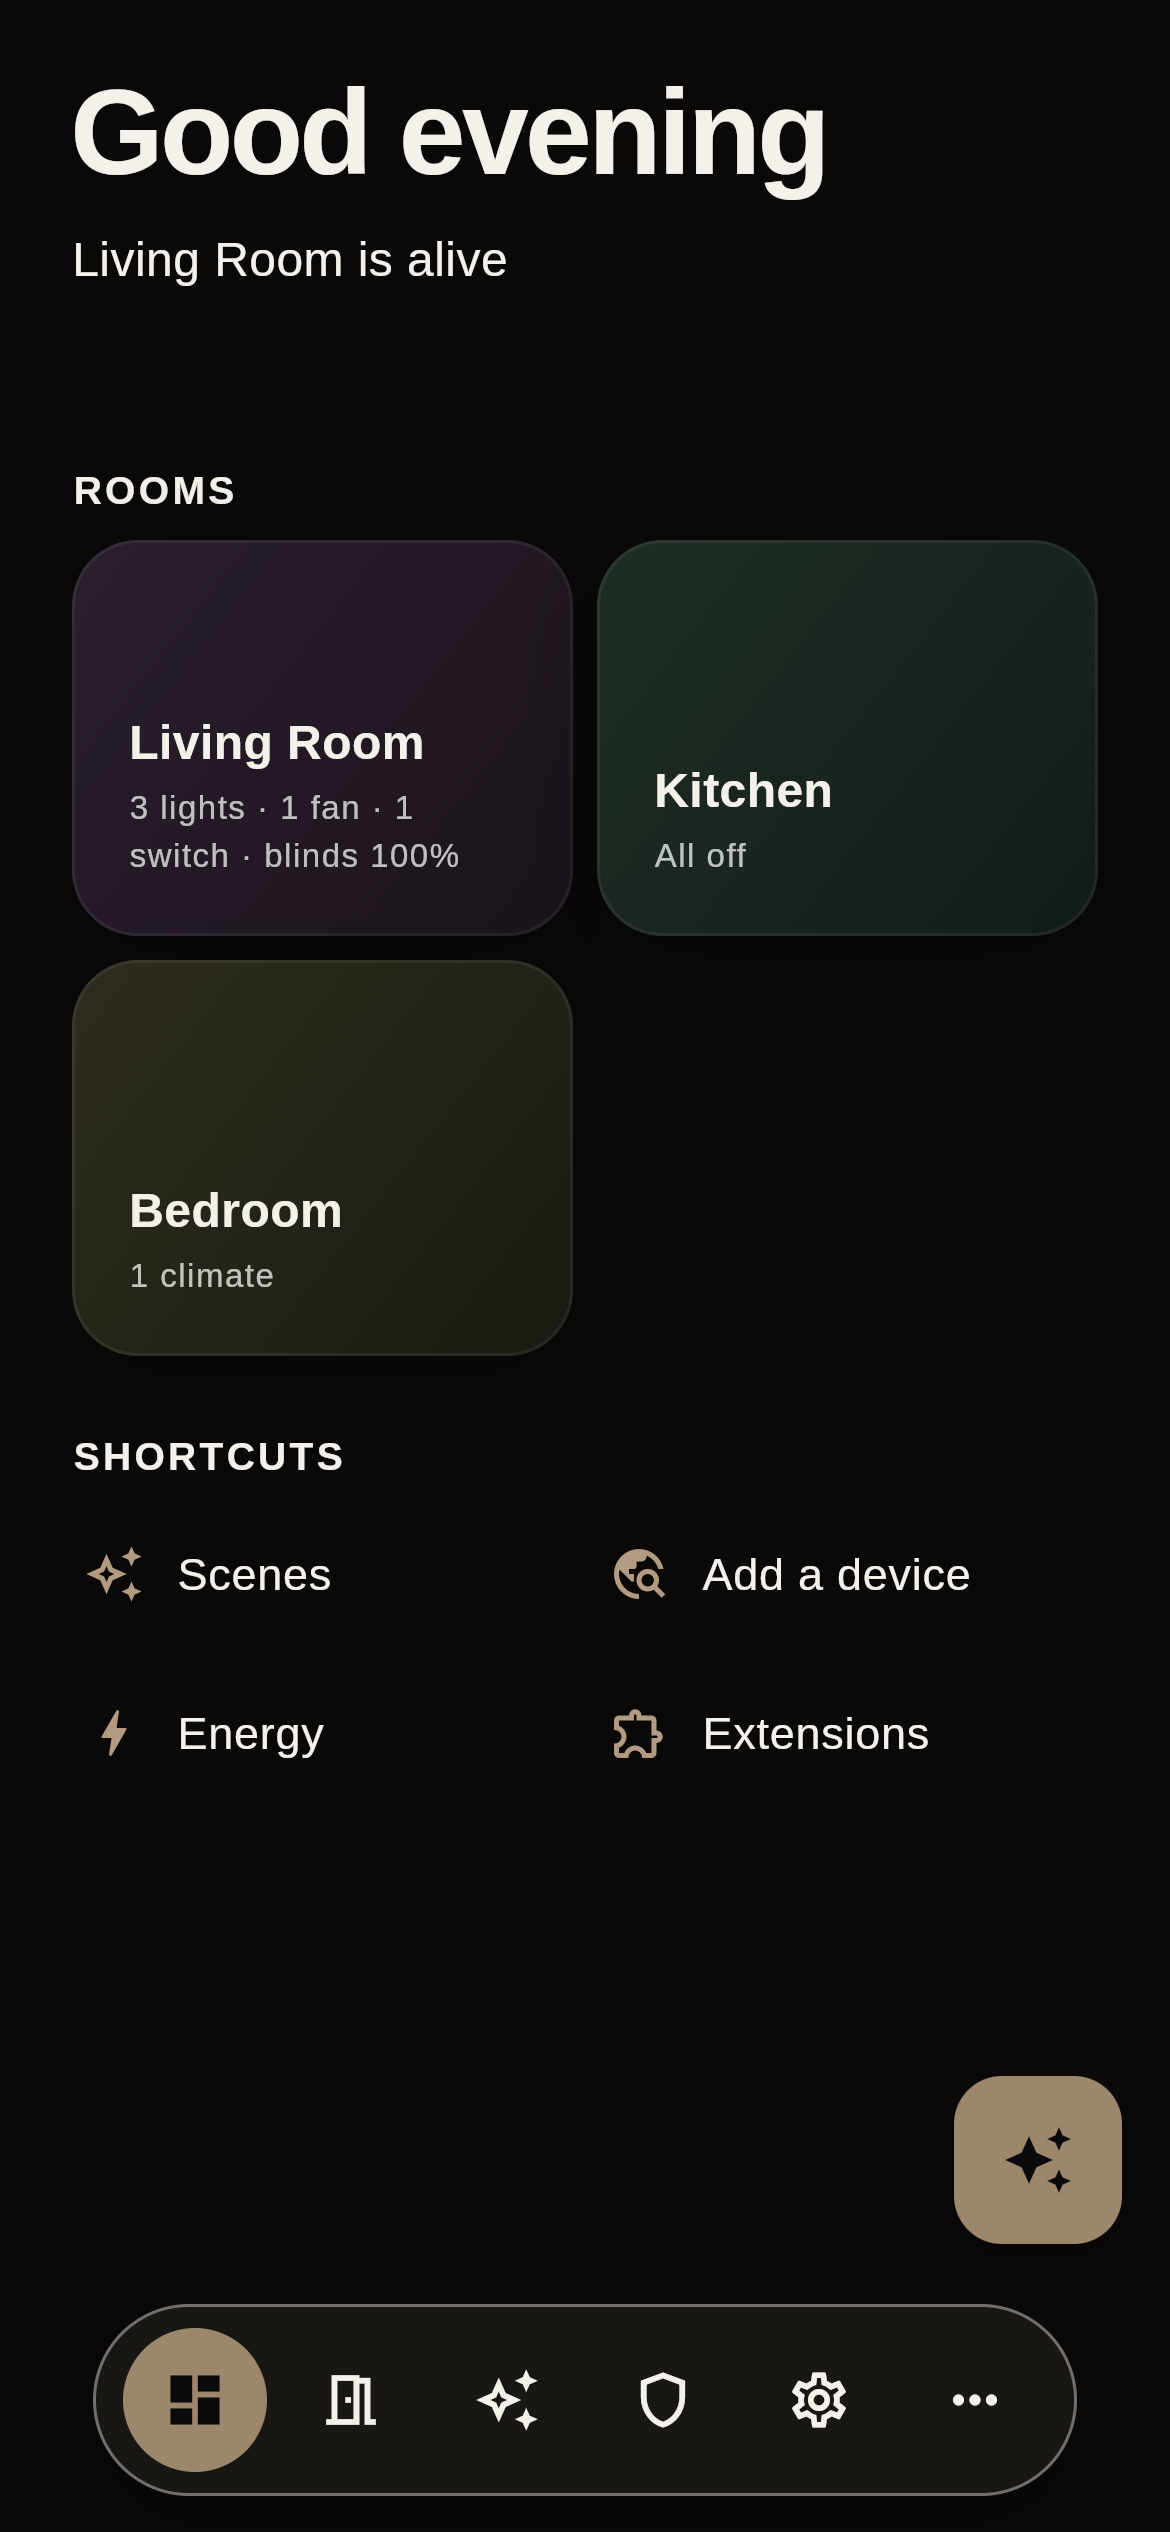
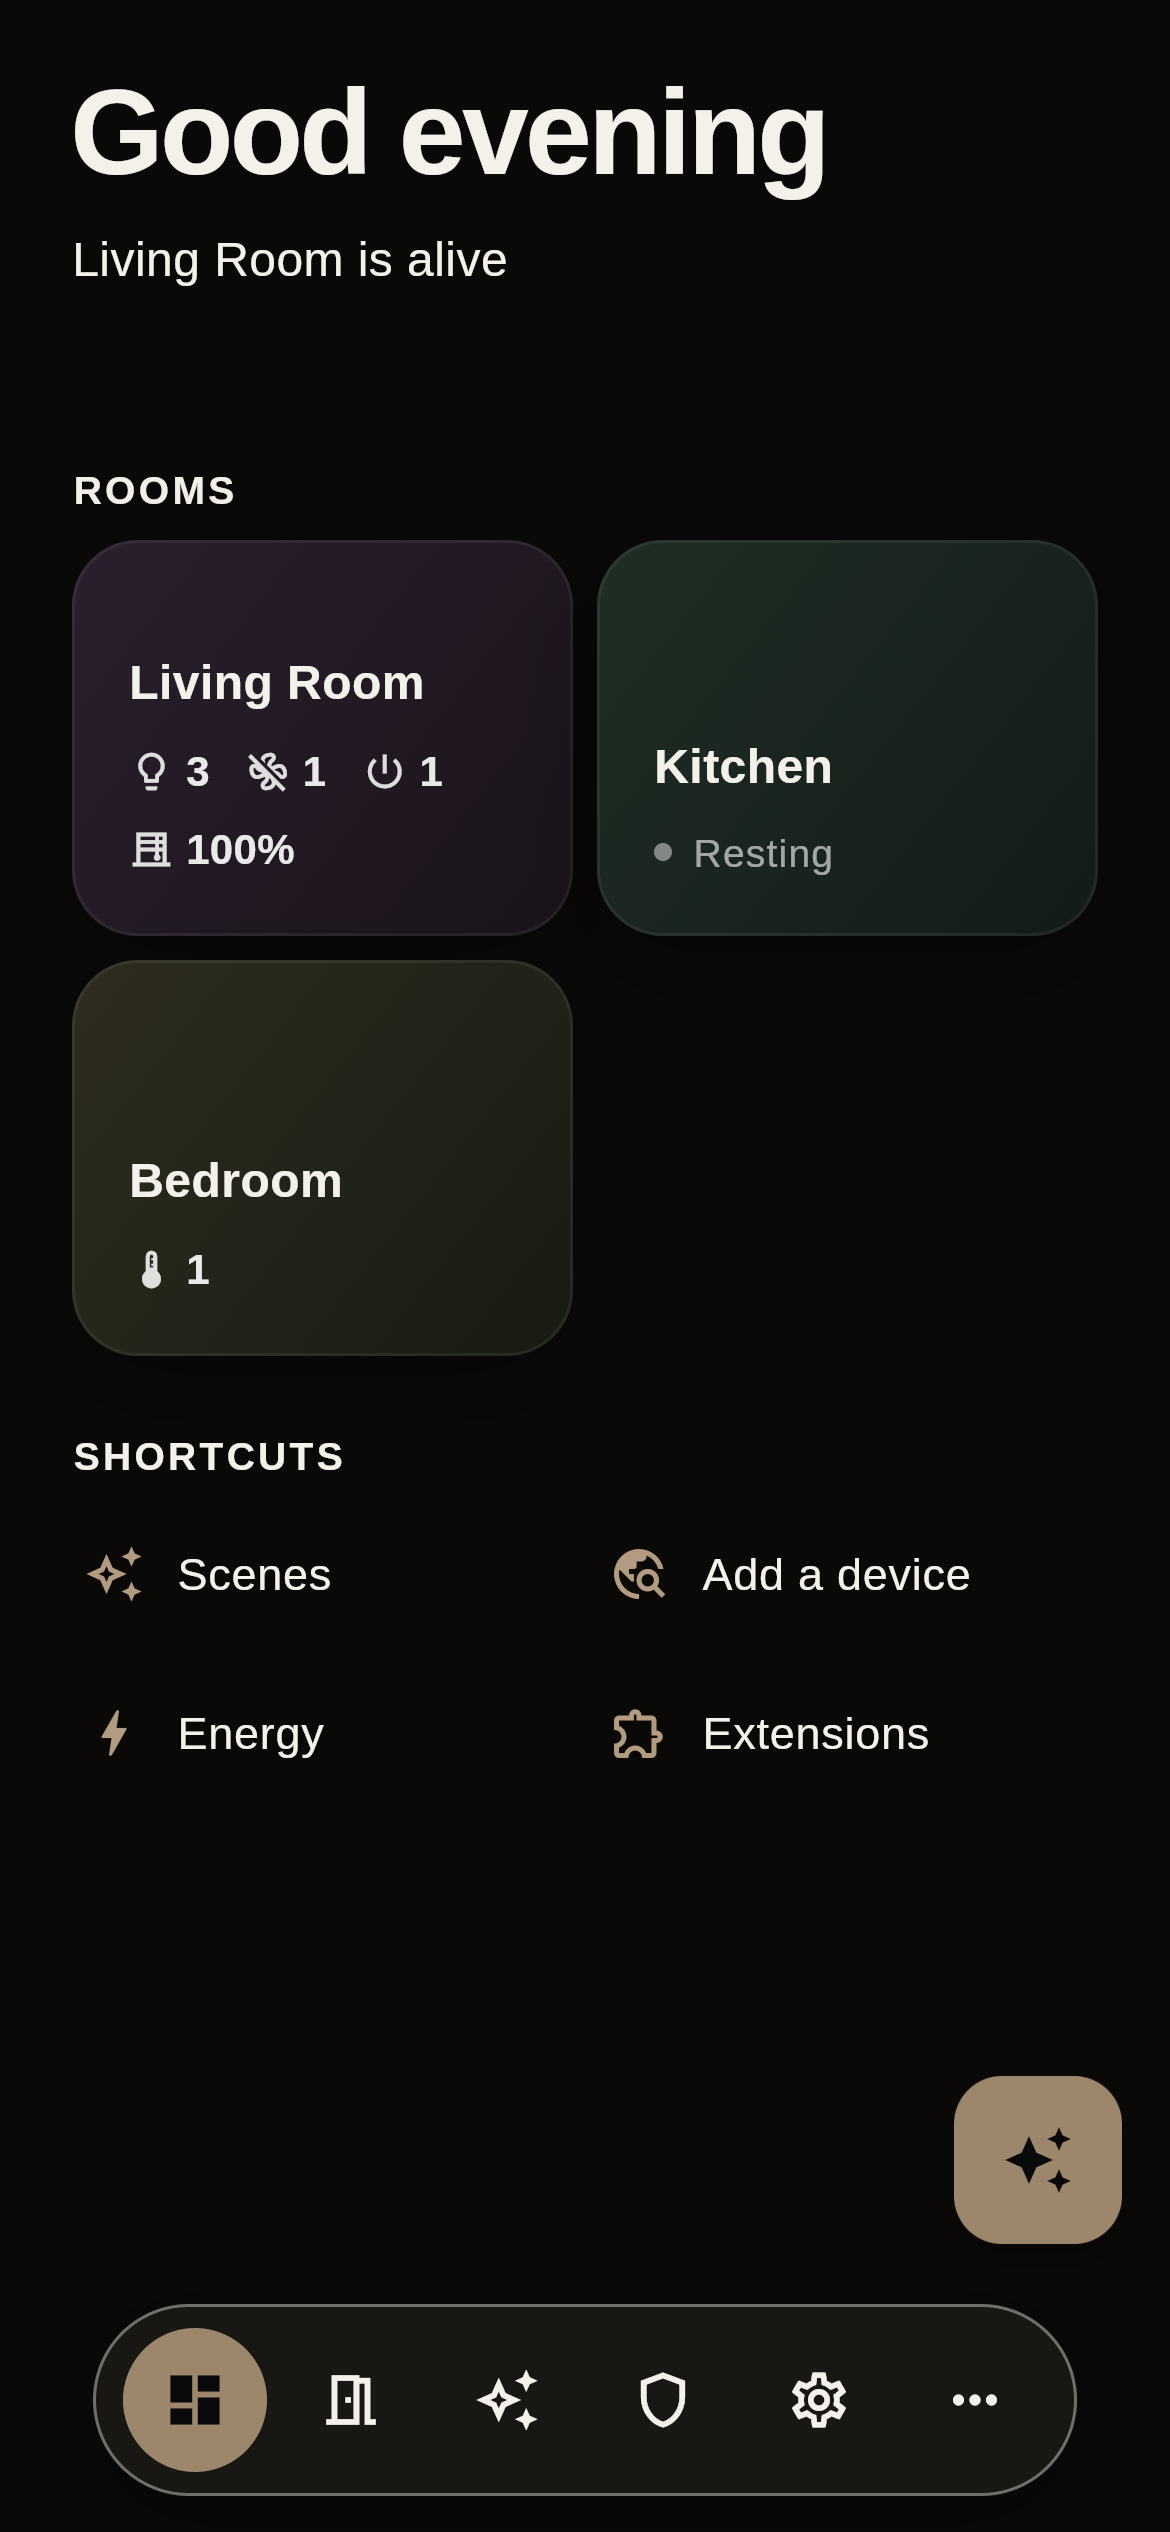
Glyph room summaries + personal greeting: mobile parity (§ review)
Mirrors the web pass on Flutter: room tiles show line-icon chips (bulb, thermostat, fan, power,
blinds) with counts instead of a text summary, and a calm "● Resting" when idle (shared Dart
roomChips()). The greeting is personal — "Good evening, <FirstName>" via a new meProvider. Also bumped
the whitespace between room device rows per the review.

Refreshed the affected screenshots.

Verified: flutter analyze clean; flutter test 4/4; visually confirmed on the mobile Home.

Claude-Session: https://claude.ai/code/session_01EBecuTkque4TJM3ndyHGTv

Changed region(s): [[0.0923, 0.2496, 0.3692, 0.3432], [0.0923, 0.4368, 0.3077, 0.5304], [0.5538, 0.2808, 0.7077, 0.3432]]

diff --git a/apps/mobile/lib/screens/dashboard.dart b/apps/mobile/lib/screens/dashboard.dart
@@ -89,6 +89,7 @@ class DashboardScreen extends ConsumerWidget {
     final allRooms = ref.watch(homeProvider).valueOrNull?.rooms ?? const <Room>[];
     final rooms = [...allRooms]..sort((a, b) => usage.count('room', b.id).compareTo(usage.count('room', a.id)));
     final allDevices = ref.watch(allDevicesProvider).valueOrNull ?? const <Device>[];
+    final firstName = (((ref.watch(meProvider).valueOrNull?['user'] as Map<String, dynamic>?)?['displayName'] as String?) ?? '').trim().split(RegExp(r'\s+')).first;
 
     // A warm, true one-liner about the moment — real sunset time + which room is alive right now.
     Room? liveRoom;
@@ -132,7 +133,7 @@ class DashboardScreen extends ConsumerWidget {
           children: [
             // The home greets you — typography is the hierarchy, no boxes (§ Project Monolith).
             Row(crossAxisAlignment: CrossAxisAlignment.start, children: [
-              Expanded(child: Text(_greeting(), style: const TextStyle(fontSize: 40, fontWeight: FontWeight.w600, letterSpacing: -1.2, height: 1.0))),
+              Expanded(child: Text('${_greeting()}${firstName.isNotEmpty ? ', $firstName' : ''}', style: const TextStyle(fontSize: 40, fontWeight: FontWeight.w600, letterSpacing: -1.2, height: 1.0))),
               const HomeSwitcherButton(),
             ]),
             const SizedBox(height: 10),
@@ -184,7 +185,7 @@ class DashboardScreen extends ConsumerWidget {
                       width: w,
                       child: _RoomTile(
                         name: r.name,
-                        summary: summarizeRoom(allDevices.where((d) => d.roomId == r.id).toList()),
+                        chips: roomChips(allDevices.where((d) => d.roomId == r.id).toList()),
                         onTap: () { usage.record('room', r.id); _push(context, Scaffold(appBar: AppBar(title: Text(r.name)), body: RoomView(roomId: r.id, roomName: r.name, areaType: r.areaType, heroImageUrl: r.heroImageUrl))); },
                       ),
                     ),
@@ -387,14 +388,27 @@ LinearGradient _roomTint(String name) {
 }
 
 /// Rooms are the hero: a softly-lit tile with an ambient shadow and a bottom-anchored name.
+IconData _chipIcon(String kind) {
+  switch (kind) {
+    case 'light': return Icons.lightbulb_outline;
+    case 'climate': return Icons.thermostat;
+    case 'media': return Icons.music_note_outlined;
+    case 'fan': return Icons.mode_fan_off_outlined;
+    case 'switch': return Icons.power_settings_new;
+    case 'cover': return Icons.blinds_outlined;
+    default: return Icons.circle_outlined;
+  }
+}
+
 class _RoomTile extends StatelessWidget {
-  const _RoomTile({required this.name, required this.onTap, this.summary = ''});
+  const _RoomTile({required this.name, required this.onTap, this.chips = const []});
   final String name;
-  final String summary;
+  final List<RoomChip> chips;
   final VoidCallback onTap;
 
   @override
   Widget build(BuildContext context) {
+    final text = Theme.of(context).textTheme;
     return InkWell(
       borderRadius: BorderRadius.circular(22),
       onTap: onTap,
@@ -411,11 +425,23 @@ class _RoomTile extends StatelessWidget {
           mainAxisAlignment: MainAxisAlignment.end,
           crossAxisAlignment: CrossAxisAlignment.start,
           children: [
-            Text(name, style: Theme.of(context).textTheme.titleMedium?.copyWith(fontWeight: FontWeight.w600)),
-            const SizedBox(height: 2),
-            Text(summary.isEmpty ? 'All off' : summary,
-                maxLines: 2, overflow: TextOverflow.ellipsis,
-                style: Theme.of(context).textTheme.labelSmall?.copyWith(color: Colors.white.withValues(alpha: 0.72))),
+            Text(name, style: text.titleMedium?.copyWith(fontWeight: FontWeight.w600)),
+            const SizedBox(height: 8),
+            if (chips.isEmpty)
+              Row(children: [
+                Container(width: 6, height: 6, decoration: BoxDecoration(shape: BoxShape.circle, color: Colors.white.withValues(alpha: 0.45))),
+                const SizedBox(width: 7),
+                Text('Resting', style: text.labelMedium?.copyWith(color: Colors.white.withValues(alpha: 0.6))),
+              ])
+            else
+              Wrap(spacing: 12, runSpacing: 6, children: [
+                for (final c in chips)
+                  Row(mainAxisSize: MainAxisSize.min, children: [
+                    Icon(_chipIcon(c.kind), size: 15, color: Colors.white.withValues(alpha: 0.85)),
+                    const SizedBox(width: 4),
+                    Text(c.label, style: text.labelLarge?.copyWith(color: Colors.white.withValues(alpha: 0.9), fontWeight: FontWeight.w600)),
+                  ]),
+              ]),
           ],
         ),
       ),

diff --git a/apps/mobile/lib/roomsummary.dart b/apps/mobile/lib/roomsummary.dart
@@ -3,6 +3,49 @@ import 'package:supreme_sdk/supreme_sdk.dart';
 /// A live, human summary of what's happening in a room — "3 lights · 1 fan · blinds 100%".
 /// Mirrors the web helper: counts every device that is ON by friendly category, and lists open
 /// covers with their position. Homeowner language only. Empty string when the room is at rest.
+/// A glyph-friendly chip — an icon kind + its count label ("3", "100%").
+class RoomChip {
+  const RoomChip(this.kind, this.label);
+  final String kind; // light | climate | media | fan | switch | cover
+  final String label;
+}
+
+/// Structured, glyph-first room summary — luxury communicates before you read.
+List<RoomChip> roomChips(List<Device> devices) {
+  var lights = 0, climate = 0, media = 0, fans = 0, switches = 0;
+  final coversOpen = <int>[];
+  for (final d in devices) {
+    final caps = d.capabilities;
+    final st = d.state;
+    Map<String, dynamic>? s(String k) => st[k] as Map<String, dynamic>?;
+    if (caps.contains('position')) {
+      final p = ((s('position')?['position'] as num?) ?? 0).round();
+      if (p > 0) coversOpen.add(p);
+      continue;
+    }
+    if (caps.contains('brightness') || caps.contains('color')) {
+      if ((s('brightness')?['on'] ?? s('color')?['on'] ?? s('onoff')?['on']) == true) lights++;
+      continue;
+    }
+    if (caps.contains('temperature')) { final m = s('temperature')?['mode']; if (m != null && m != 'off') climate++; continue; }
+    if (caps.contains('media')) { final pb = s('media')?['playback']; if (pb == 'playing' || pb == 'paused') media++; continue; }
+    if (caps.contains('fan')) { if (s('fan')?['on'] == true) fans++; continue; }
+    if (caps.contains('onoff')) { if (s('onoff')?['on'] == true) switches++; continue; }
+  }
+  final chips = <RoomChip>[];
+  if (lights > 0) chips.add(RoomChip('light', '$lights'));
+  if (climate > 0) chips.add(RoomChip('climate', '$climate'));
+  if (media > 0) chips.add(RoomChip('media', '$media'));
+  if (fans > 0) chips.add(RoomChip('fan', '$fans'));
+  if (switches > 0) chips.add(RoomChip('switch', '$switches'));
+  if (coversOpen.length == 1) {
+    chips.add(RoomChip('cover', '${coversOpen.first}%'));
+  } else if (coversOpen.length > 1) {
+    chips.add(RoomChip('cover', '${coversOpen.length}'));
+  }
+  return chips;
+}
+
 String summarizeRoom(List<Device> devices) {
   var lights = 0, climate = 0, media = 0, fans = 0, switches = 0;
   final coversOpen = <int>[];

diff --git a/apps/mobile/lib/providers.dart b/apps/mobile/lib/providers.dart
@@ -108,6 +108,11 @@ final clientProvider = Provider<SupremeClient>((ref) {
 /// Holds the live WSS stream once authenticated.
 final streamProvider = StateProvider<SupremeStream?>((ref) => null);
 
+/// The signed-in user (for a personal greeting). Shape: { user: { displayName, email, … } }.
+final meProvider = FutureProvider<Map<String, dynamic>>((ref) async {
+  return ref.watch(clientProvider).me();
+});
+
 /// The home topology, loaded after login.
 final homeProvider = FutureProvider<HomeView>((ref) async {
   final client = ref.watch(clientProvider);

diff --git a/apps/mobile/lib/screens/room_view.dart b/apps/mobile/lib/screens/room_view.dart
@@ -197,7 +197,7 @@ class _RoomViewState extends ConsumerState<RoomView> {
         else
           for (final device in _devices)
             Padding(
-              padding: const EdgeInsets.only(bottom: AureonSpacing.sm),
+              padding: const EdgeInsets.only(bottom: AureonSpacing.md),
               child: Builder(builder: (context) {
                 final spec = _tileSpec(device);
                 return DeviceControlTile(
